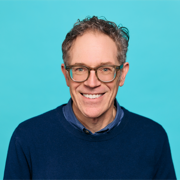
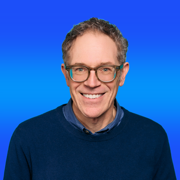
feat: new blue headshot + official brand palette
Replace all Greg photos (hero, about teaser, about portrait, favicon,
apple-touch-icon, OG image) with the new blue-background headshot.
Serve large images as WebP for weight.

Apply official palette: #1c4ff9 dark blue (header buttons/accents),
#ffc500 yellow (banner + gold buttons), #00a5ff light blue (newsletter
gradient). Add slight rounded corners to the hero image.

Also fix LinkedIn handle (gregweinger -> gregoryweinger).

Claude-Session: https://claude.ai/code/session_01JpdwvFx3muFCHdEpr7wVhq

diff --git a/src/styles/global.css b/src/styles/global.css
@@ -3,17 +3,18 @@
    A designer can reskin the site by editing :root only.
    ============================================================ */
 :root {
-  /* Brand primitives — sourced from podcast cover art */
-  --brand-blue:  #1589D3;
-  --brand-gold:  #F9B400;
-  --brand-navy:  #0D2747;
+  /* Brand primitives — official palette */
+  --brand-blue:        #1c4ff9;  /* dark blue  */
+  --brand-blue-light:  #00a5ff;  /* light blue */
+  --brand-gold:        #ffc500;  /* yellow     */
+  --brand-navy:        #0D2747;  /* deep navy for text + contrast on yellow */
 
   /* Semantic color tokens */
   --color-text:          var(--brand-navy);
   --color-text-muted:    #5B7A9A;
   --color-accent:        var(--brand-blue);
-  --color-accent-dark:   #0E70B0;
-  --color-accent-light:  #E8F3FB;
+  --color-accent-dark:   #1640d0;
+  --color-accent-light:  #E7F0FF;
   --color-border:        #D5E5F0;
   --color-bg:            #FFFFFF;
   --color-surface:       #F4F9FD;
@@ -314,6 +315,7 @@ h3 { font-size: var(--text-xl); margin: 0 0 var(--space-2); }
   width: 100%;
   height: auto;
   display: block;
+  border-radius: var(--radius-lg);
 }
 .hero-text { width: 100%; }
 .hero-tagline { font-size: var(--text-lg); margin: var(--space-2) 0; color: var(--color-text-muted); }
@@ -352,7 +354,7 @@ h3 { font-size: var(--text-xl); margin: 0 0 var(--space-2); }
    Newsletter band
    ============================================================ */
 .newsletter-band {
-  background: var(--brand-blue);
+  background: linear-gradient(135deg, var(--brand-blue) 0%, var(--brand-blue-light) 100%);
   color: #fff;
   border-radius: var(--radius-lg);
   padding: var(--space-8) var(--space-6);

diff --git a/src/lib/links.ts b/src/lib/links.ts
@@ -7,5 +7,5 @@ export const LINKS = {
   apple: 'https://podcasts.apple.com/us/podcast/id1794604735',
   spotify: 'https://open.spotify.com/show/5Sv8RRa1sn6uMVM0yiPIM1',
   youtube: 'https://www.youtube.com/@powerfulintrovert',
-  linkedin: 'https://www.linkedin.com/in/gregweinger/',
+  linkedin: 'https://www.linkedin.com/in/gregoryweinger/',
 } as const;

diff --git a/src/lib/person.ts b/src/lib/person.ts
@@ -10,7 +10,7 @@ export const PERSON = {
   jobTitle: 'Podcast Host & Leadership Advisor',
   image: 'https://gweinger.com/greg-weinger.png',
   sameAs: [
-    'https://www.linkedin.com/in/gregweinger/',
+    'https://www.linkedin.com/in/gregoryweinger/',
     'https://www.powerfulintrovertpodcast.com/',
     'https://podcasts.apple.com/us/podcast/id1794604735',
     'https://open.spotify.com/show/5Sv8RRa1sn6uMVM0yiPIM1',